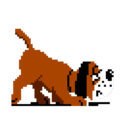
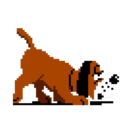
Fixed dog image phantom line issue

Changed region(s): [[0.072, 0.2154, 0.96, 0.8308]]

diff --git a/gulpfile.js b/gulpfile.js
@@ -29,10 +29,11 @@ gulp.task('images', gulp.parallel(function(){
   return gulp.src('*', {read:false})
     .pipe(shell([
       'TexturePacker --version || echo ERROR: TexturePacker not found, install TexturePacker',
-      'TexturePacker --disable-rotation --algorithm Basic --extrude 0 --no-trim --disable-auto-alias --png-opt-level 0 --data dist/sprites.json --format json --sheet dist/sprites.png src/assets/images'
+      'TexturePacker --disable-rotation --algorithm Basic --extrude 0 --no-trim --disable-auto-alias --png-opt-level 0 --border-padding 10 --data dist/sprites.json --format json --sheet dist/sprites.png src/assets/images'
     ]))
     .pipe(connect.reload());
 }));
+
 
 gulp.task('deploy', gulp.parallel(function() {
   return gulp.src('*', {read:false})
